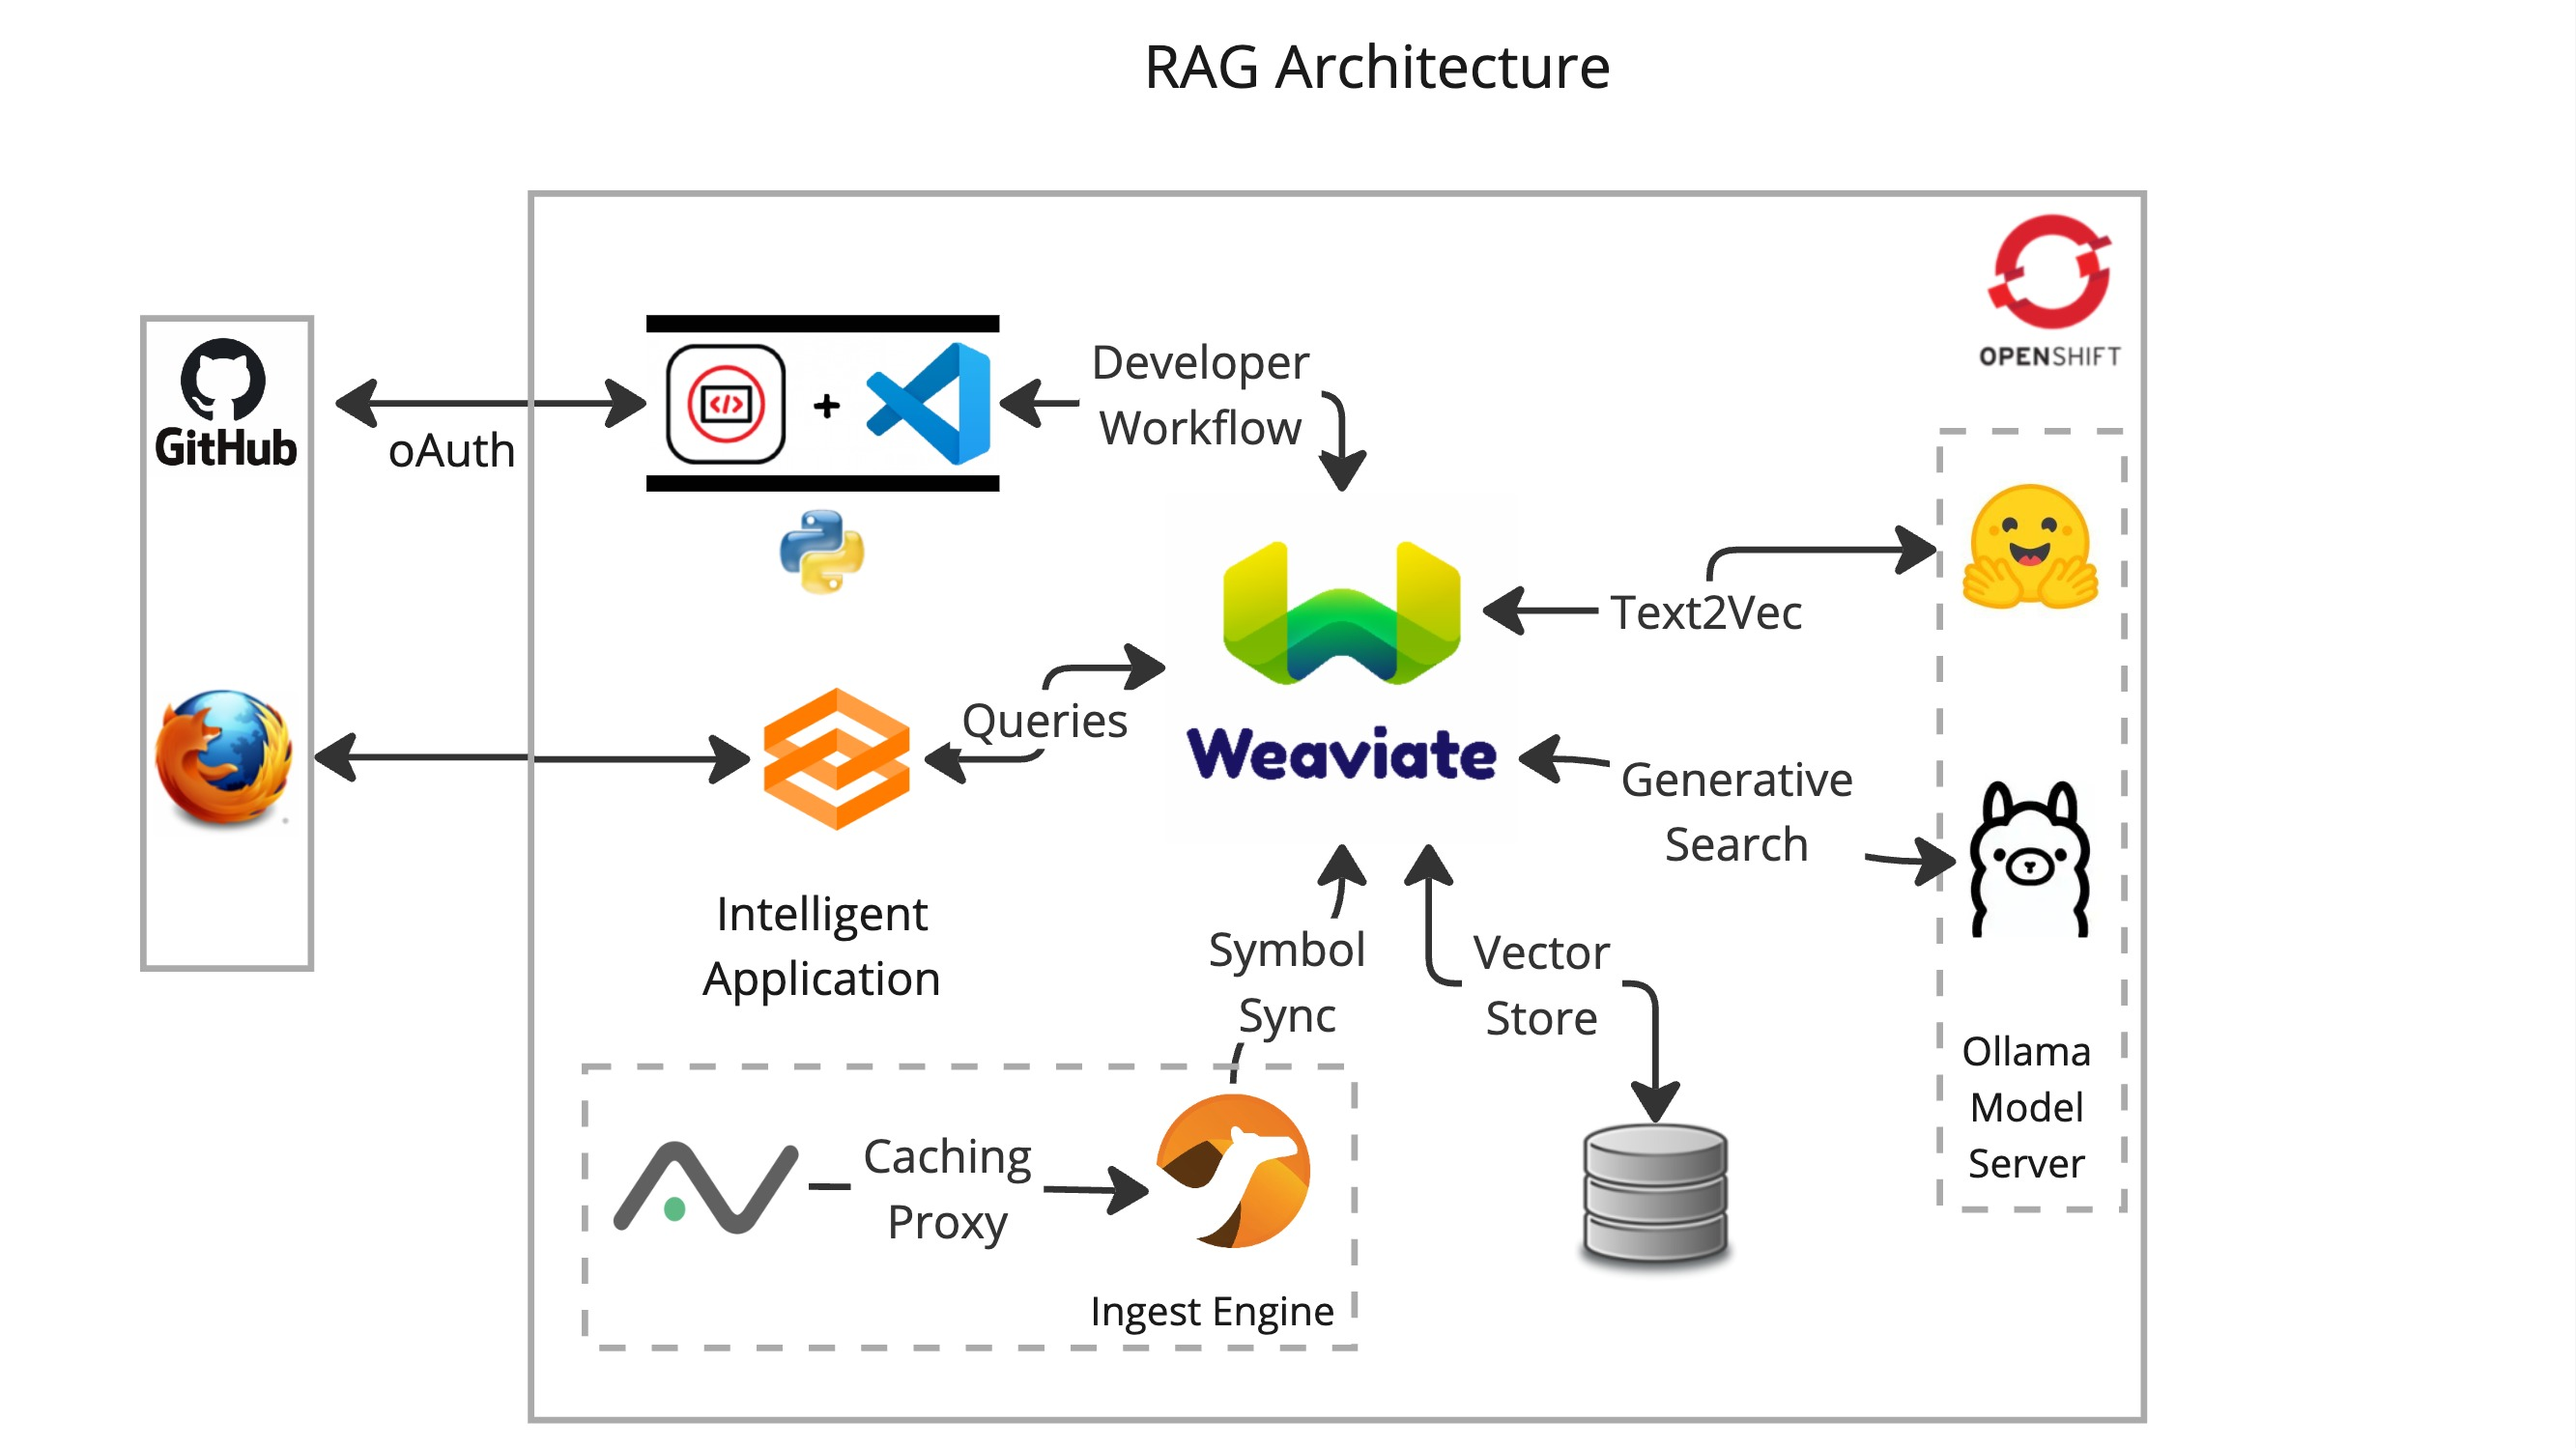
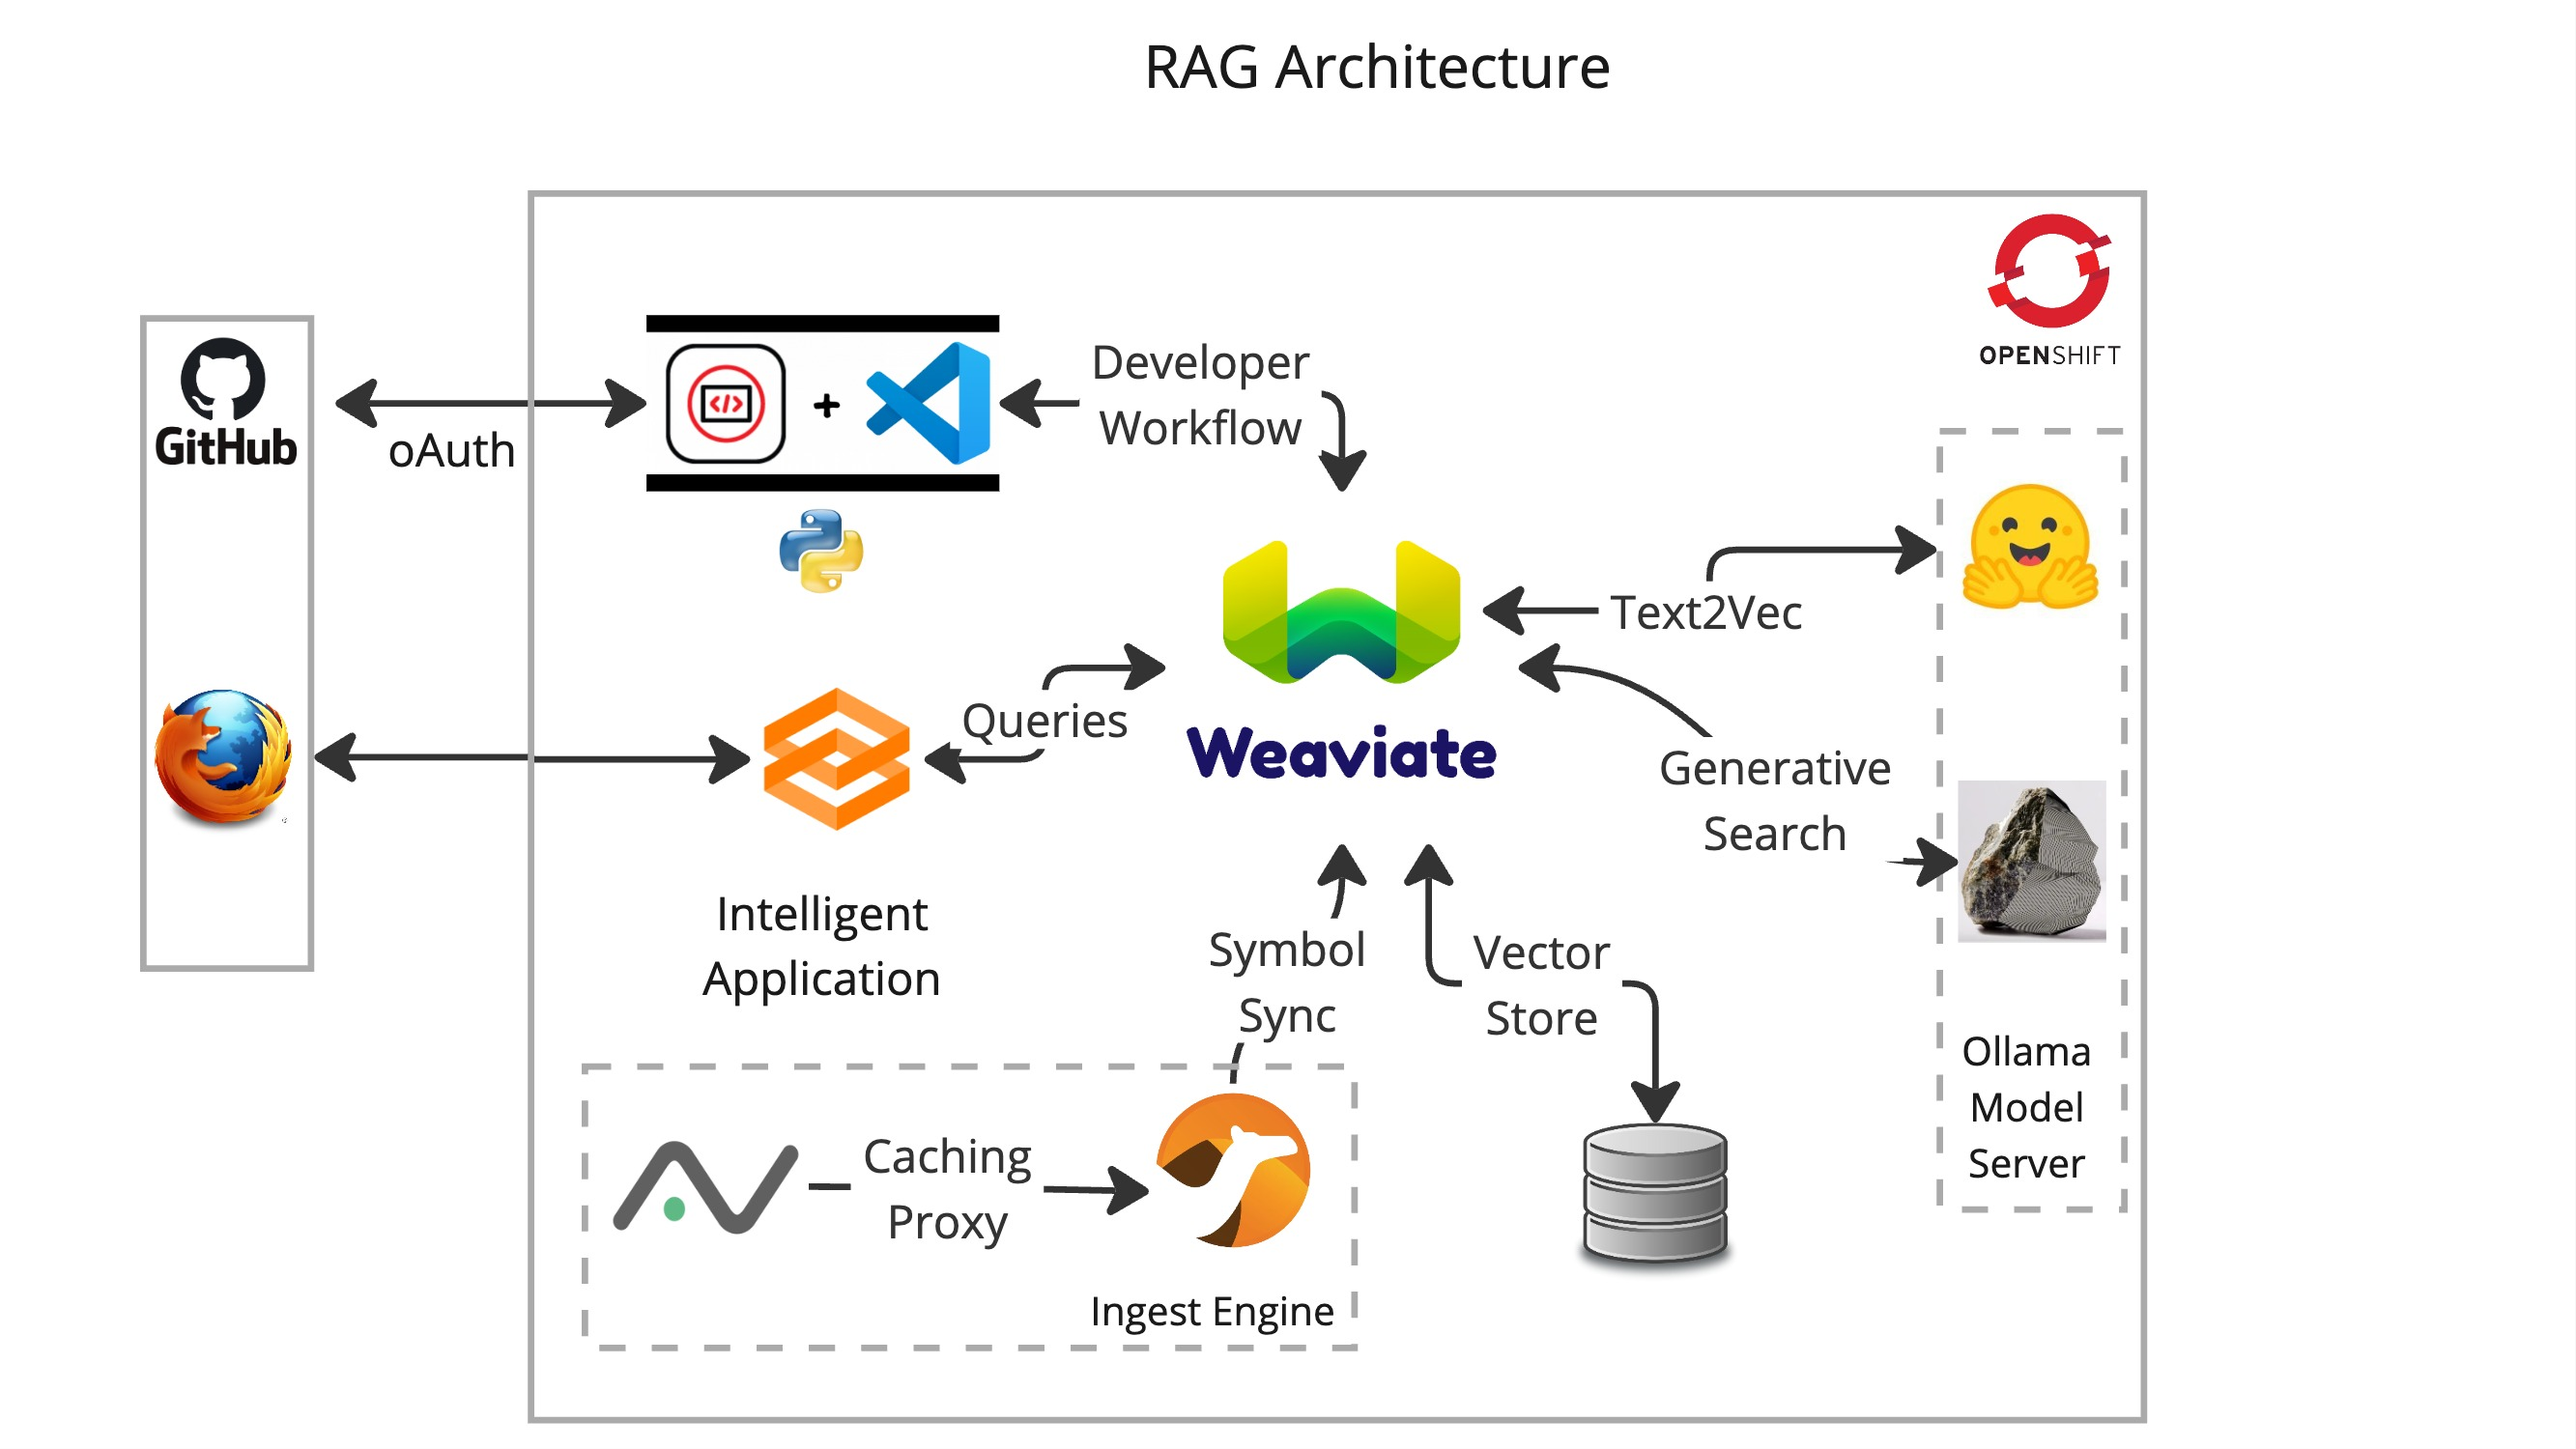
swapped in granite-dense for llama3

diff --git a/README.md b/README.md
@@ -22,7 +22,7 @@ consists of a short description along with sampling of financial metrics such as
 capitalization, book value and earnings per share just to name a few. A user can then query 
 the database using a natural language and Weaviate will return companies that are most 
 similar to the concept. Finally, a generative search is performed using the
-[llama3](https://github.com/meta-llama/llama3.git) large language model (LLM) to generate a 
+[granite3-dense:8b](https://ollama.com/library/granite3-dense:8b) large language model (LLM) to generate a 
 financial summary which is presented to the user. It is important to note that the summary is 
 based on the financial data from the original company overview database and not the LLM.  
 
@@ -53,7 +53,7 @@ based on the financial data from the original company overview database and not 
 
 ##### Install Ollama
 - Install an [Ollama model server](https://github.com/williamcaban/ollama-ubi) in the `ollama` namespace.
-  - The `all-minilm` and `llama3` models should be [pulled](https://github.com/ollama/ollama/blob/main/docs/api.md#pull-a-model) after install. This can be done using `curl` or the `ollama` cli tool from an Openshift or DevSpaces terminal.
+  - The `all-minilm` and `granite3-dense:8b` models should be [pulled](https://github.com/ollama/ollama/blob/main/docs/api.md#pull-a-model) after install. This can be done using `curl` or the `ollama` cli tool from an Openshift or DevSpaces terminal.
 
 ##### Stock Overview Ingestion Engine
 
@@ -64,7 +64,7 @@ the `camel` namespace.
 
 - A Stock Overview Syncronizer
   - Follow the instructions to install the [AlphaVantage syncronizer](https://github.com/joshdreagan/av-overview-sync.git) in 
-the `camel` namespace.
+the `camel` namespace. Configure the `av-overview-sync-configmap` configmap to use the `granite3-dense:8b` model. 
 
 ##### Deploy the application. 
 1. From a terminal, create an Openshift application.
